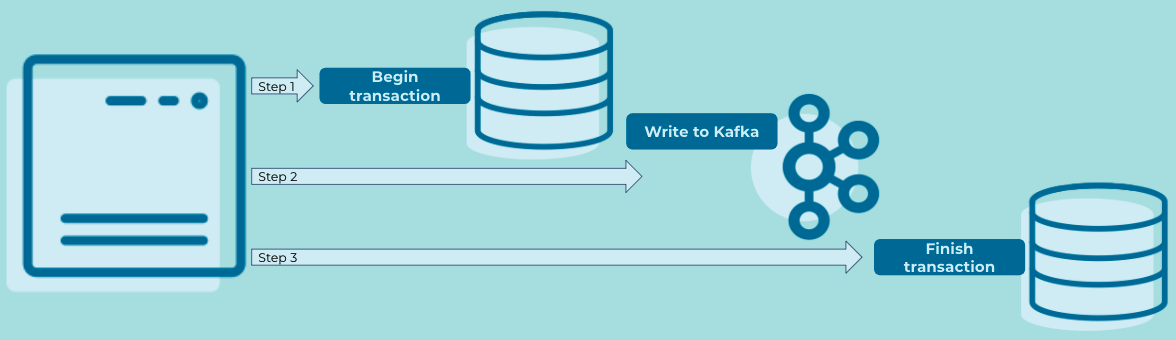
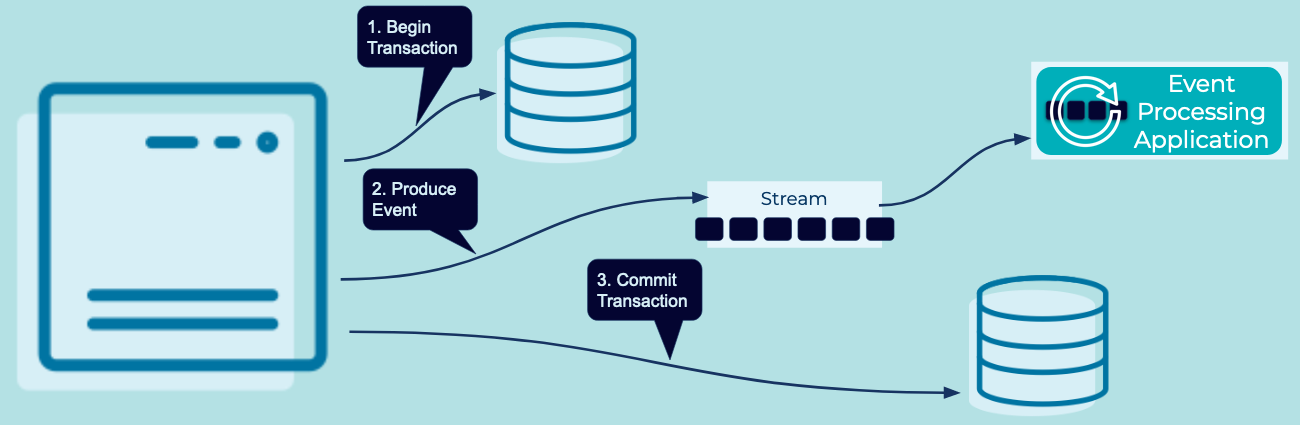
database write aside (#43)
* database write aside

* database write aside revision

* Update docs/event-source/database-write-aside.md

* database write aside diagram revision

* Update docs/event-source/database-write-aside.md

* database-write-asied revision

* add into into sql cmd

diff --git a/docs/event-source/database-write-aside.md b/docs/event-source/database-write-aside.md
@@ -1,4 +1,11 @@
+---
+seo:
+  title: Database Write Aside
+  description: Simultaneously update a value in a database and create an associated event in an event streaming platform.
+---
+
 # Database Write Aside
+Applications which write directly to a database may want to produce an associated [Event](../event/event.md) to the [Event Streaming Platform](../event-stream/event-streaming-platform.md) for each write operation allowing downstream [Event Processing Applications](../event-processing/event-processing-application.md) to be notified and consume the [Event](../event/event.md).
 
 ## Problem
 
@@ -13,14 +20,13 @@ Write to a database, then write to Kafka. Perform the write to Kafka as the last
 
 
 ## Implementation
-
 ```
 //Enable transactions
 db.setAutoCommit(false);
 
 try{
    //insert into the DB
-   sql = db.prepareStatement("insert mydb.events values (?)");
+   sql = db.prepareStatement("insert into mydb.events values (?)");
    sql.setString(event.toString());
    sql.executeUpdate();
 
@@ -36,12 +42,10 @@ try{
 
 
 ## Considerations
-
 In its default form, this pattern guarantees dual-write for most use cases. However, should the database transaction fail at commit time (say, because the database server has crashed) the write to Kafka cannot be rolled back unless transactions have been enabled. For many use cases, this eventuality will be tolerable as the dual-write can be retried once the failure is fixed, and most event consumers will implement idempotence anyway. However, application programmers need to be aware that there is no firm guarantee. 
 
 Transactional messaging systems like Kafka can be used to provide stronger guarantees so long as all event consumers have the transactions feature enabled. 
 
 
 ## References
-
-* Related patterns: [Database Write Through](../event-source/database-write-through.md)
+* See [Database Write Through](database-write-through.md) for an alternative example of writing database changes to an Event Stream
